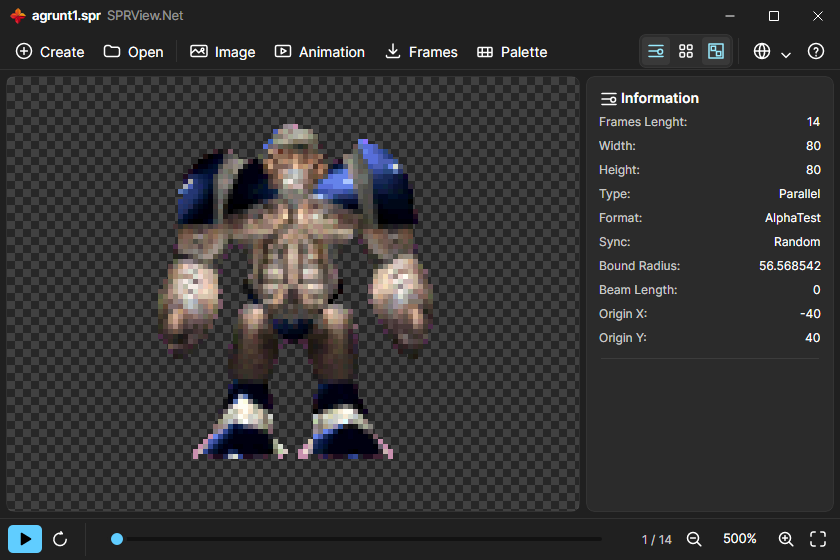
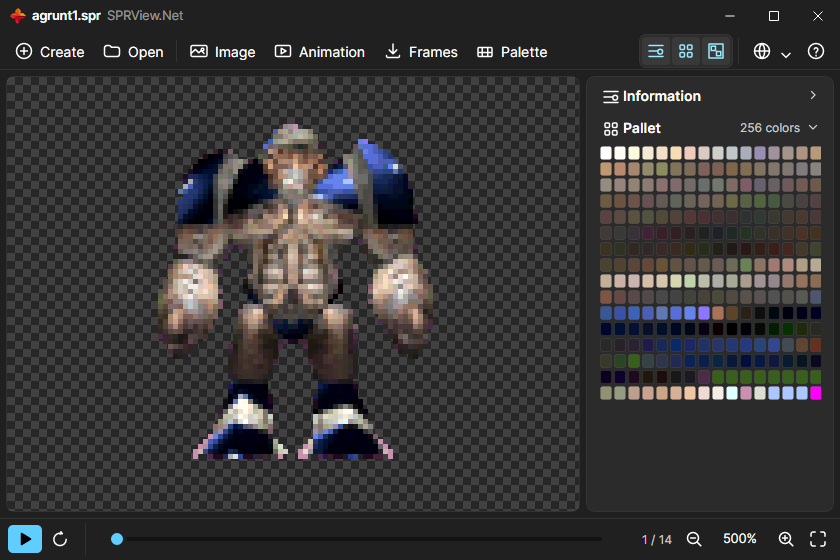
feat(ui): make the side panel sections collapsible
The information rows occupied the top of the side panel permanently, so a 256
colour palette could never use the full height without turning the whole panel
off in the command bar.

Both sections now collapse from their header, which became a full width row
with a chevron that flips between down and right. The command bar still decides
whether the panel exists; the header decides whether that section is unfolded,
so the two controls no longer have to be used together. The rule between the
sections only appears when both are open.

The palette is collapsible too rather than only the information: the same
problem applies in the other direction when you are reading metadata and do not
want the swatch grid.

Small 12x12 chevrons were needed because the existing ones are authored on the
20x20 icon grid and lose their shape when drawn at caption size.

Rows also step down to 22px, swatches to 14px and the panel padding tightens,
continuing the compaction from the previous commit.

The interaction suite grew to 53 checks. The three new groups click the real
header buttons, which covers the handlers and the section state, not just the
flags behind them.

Changed region(s): [[0.7119, 0.1518, 0.9905, 0.7286], [0.8048, 0.0607, 0.8357, 0.1214]]

diff --git a/tools/UiSnapshot/InteractionChecks.cs b/tools/UiSnapshot/InteractionChecks.cs
@@ -3,6 +3,7 @@ using Avalonia.Controls;
 using Avalonia.Controls.Primitives;
 using Avalonia.Headless;
 using Avalonia.Input;
+using Avalonia.Interactivity;
 using Avalonia.Input.Raw;
 using Avalonia.Media.Imaging;
 using Avalonia.Platform;
@@ -128,6 +129,47 @@ internal static class InteractionChecks
             Settle();
             Expect(vm.ApplyTransparency, "clicking it again turns transparency back on");
         }
+
+        // Section headers inside the side panel collapse independently of the
+        // command bar, so a long palette can use the whole panel.
+        vm.ShowPalettePanel = true;
+        Settle();
+        Expect(vm.IsInfoExpanded && vm.IsPaletteExpanded, "both sections start expanded");
+        Expect(vm.ShowInfoDivider, "the divider shows while both sections are open");
+
+        vm.IsInfoExpanded = false;
+        Settle();
+        Expect(!vm.IsInfoExpanded, "the information section collapses");
+        Expect(!vm.ShowInfoDivider, "collapsing information drops the divider");
+
+        var infoHeader = window.FindControl<Button>("InfoSectionHeader");
+        Expect(infoHeader != null, "the panel exposes the information header button");
+        if (infoHeader != null)
+        {
+            // A Button has no click verb in the API; raising the event is what
+            // the pointer would do, and it runs the real handler.
+            infoHeader.RaiseEvent(new RoutedEventArgs(Button.ClickEvent));
+            Settle();
+            Expect(vm.IsInfoExpanded, "clicking the header expands it again");
+            infoHeader.RaiseEvent(new RoutedEventArgs(Button.ClickEvent));
+            Settle();
+            Expect(!vm.IsInfoExpanded, "clicking it again collapses it");
+        }
+
+        var paletteHeader = window.FindControl<Button>("PaletteSectionHeader");
+        Expect(paletteHeader != null, "the panel exposes the palette header button");
+        if (paletteHeader != null)
+        {
+            paletteHeader.RaiseEvent(new RoutedEventArgs(Button.ClickEvent));
+            Settle();
+            Expect(!vm.IsPaletteExpanded, "the palette section collapses");
+            paletteHeader.RaiseEvent(new RoutedEventArgs(Button.ClickEvent));
+            Settle();
+            Expect(vm.IsPaletteExpanded, "the palette section expands again");
+        }
+
+        vm.IsInfoExpanded = true;
+        Settle();
 
         // Panel toggles are plain properties the command bar binds to.
         vm.ShowPalettePanel = true;

diff --git a/src/SPRView.Net/ViewModel/MainWindow/MainWindowViewModel.cs b/src/SPRView.Net/ViewModel/MainWindow/MainWindowViewModel.cs
@@ -313,6 +313,7 @@ public partial class MainWindowViewModel : INotifyPropertyChanged
             m_bShowInfoPanel = value;
             OnPropertyChanged(nameof(ShowInfoPanel));
             OnPropertyChanged(nameof(CanShowSideBar));
+            OnPropertyChanged(nameof(ShowInfoDivider));
         }
     }
 
@@ -325,8 +326,47 @@ public partial class MainWindowViewModel : INotifyPropertyChanged
             m_bShowPalettePanel = value;
             OnPropertyChanged(nameof(ShowPalettePanel));
             OnPropertyChanged(nameof(CanShowSideBar));
+            OnPropertyChanged(nameof(ShowInfoDivider));
         }
     }
+
+    private bool m_bIsInfoExpanded = true;
+
+    /// <summary>
+    /// Whether the information rows are expanded inside the side panel. The
+    /// command bar controls whether the panel exists at all; this controls the
+    /// section within it, so a long palette can take the whole panel.
+    /// </summary>
+    public bool IsInfoExpanded
+    {
+        get => m_bIsInfoExpanded;
+        set
+        {
+            if (m_bIsInfoExpanded == value)
+                return;
+            m_bIsInfoExpanded = value;
+            OnPropertyChanged(nameof(IsInfoExpanded));
+            OnPropertyChanged(nameof(ShowInfoDivider));
+        }
+    }
+
+    private bool m_bIsPaletteExpanded = true;
+
+    /// <summary>Whether the palette swatches are expanded inside the side panel.</summary>
+    public bool IsPaletteExpanded
+    {
+        get => m_bIsPaletteExpanded;
+        set
+        {
+            if (m_bIsPaletteExpanded == value)
+                return;
+            m_bIsPaletteExpanded = value;
+            OnPropertyChanged(nameof(IsPaletteExpanded));
+        }
+    }
+
+    /// <summary>The rule between the two sections only earns its space when both are open.</summary>
+    public bool ShowInfoDivider => m_bShowInfoPanel && m_bShowPalettePanel && m_bIsInfoExpanded;
 
     public bool CanShowSideBar => (m_bShowInfoPanel || m_bShowPalettePanel) && HasSprite;
 

diff --git a/tools/UiSnapshot/Program.cs b/tools/UiSnapshot/Program.cs
@@ -209,6 +209,20 @@ internal static class Program
         Dump($"main-wide-{suffix}.png", wideWindow, 1280, 700);
         DumpTree(wideWindow, "wide");
 
+        // Fifth pass: information collapsed, palette taking the whole panel.
+        var collapsedWindow = new MainWindow();
+        var collapsedVm = new MainWindowViewModel(collapsedWindow) { Lang = LangLoader.Load(_lang) };
+        collapsedWindow.DataContext = collapsedVm;
+        collapsedVm.ShowPalettePanel = true;
+        if (_sprPath != null && File.Exists(_sprPath))
+        {
+            using FileStream stream = File.OpenRead(_sprPath);
+            SprDocument sprite = SprDocument.Load(stream);
+            collapsedVm.LoadSprite(sprite, Path.GetFileName(_sprPath));
+            collapsedVm.IsInfoExpanded = false;
+        }
+        Dump($"main-collapsed-{suffix}.png", collapsedWindow, 840, 560);
+
         // Fourth pass: at the minimum window size.
         var narrowWindow = new MainWindow();
         var narrowVm = new MainWindowViewModel(narrowWindow) { Lang = LangLoader.Load(_lang) };

diff --git a/src/SPRView.Net/ViewModel/LangViewModel.cs b/src/SPRView.Net/ViewModel/LangViewModel.cs
@@ -61,6 +61,7 @@ public class LangViewModel : INotifyPropertyChanged
     public string Dock_Loop { get => field; set { field = value; OnPropertyChanged(nameof(Dock_Loop)); } } = "Loop";
     public string Dock_ZoomIn { get => field; set { field = value; OnPropertyChanged(nameof(Dock_ZoomIn)); } } = "Zoom in";
     public string Dock_ZoomOut { get => field; set { field = value; OnPropertyChanged(nameof(Dock_ZoomOut)); } } = "Zoom out";
+    public string Dock_CollapseSection { get => field; set { field = value; OnPropertyChanged(nameof(Dock_CollapseSection)); } } = "Collapse / expand";
     public string Dock_Transparency { get => field; set { field = value; OnPropertyChanged(nameof(Dock_Transparency)); } } = "Hide transparent background";
     public string Dock_ZoomReset { get => field; set { field = value; OnPropertyChanged(nameof(Dock_ZoomReset)); } } = "Reset zoom";
     public string Dock_Fit { get => field; set { field = value; OnPropertyChanged(nameof(Dock_Fit)); } } = "Fit to window";

diff --git a/src/SPRView.Net/Window/MainWindow.axaml.cs b/src/SPRView.Net/Window/MainWindow.axaml.cs
@@ -145,6 +145,18 @@ public partial class MainWindow : Window
     private void OnAboutClick(object? sender, Avalonia.Interactivity.RoutedEventArgs e)
         => Vm?.About();
 
+    private void OnToggleInfoSection(object? sender, Avalonia.Interactivity.RoutedEventArgs e)
+    {
+        if (Vm is { } vm)
+            vm.IsInfoExpanded = !vm.IsInfoExpanded;
+    }
+
+    private void OnTogglePaletteSection(object? sender, Avalonia.Interactivity.RoutedEventArgs e)
+    {
+        if (Vm is { } vm)
+            vm.IsPaletteExpanded = !vm.IsPaletteExpanded;
+    }
+
     #endregion
 
     #region Transport

diff --git a/README.md b/README.md
@@ -55,8 +55,10 @@ the host theme, so the three platforms render identically:
 - **Chrome** is app-drawn: the caption, the command bar and the resize grips
   come from `Window/WindowChrome.cs`, so the window looks the same instead of
   picking up the native title bar on each OS.
-- **Layout** is a caption, a command bar, a checkerboard canvas, a collapsible
-  side panel and a transport bar. Small sprites are auto-fitted on whole-number
+- **Layout** is a caption, a command bar, a checkerboard canvas, a side panel
+  and a transport bar. The information and palette sections inside the side
+  panel collapse from their headers, so a 256 colour palette can take the whole
+  panel when the sprite metadata is not what you are looking at. Small sprites are auto-fitted on whole-number
   zoom steps, so pixel art stays sharp.
 - **Transparency** is applied per the sprite format by default. The toggle in
   the command bar turns that off to show the frames exactly as the file stores

diff --git a/READMECN.md b/READMECN.md
@@ -52,7 +52,9 @@ tools/
   不使用 emoji，也不使用平台图标字体 —— 因为它们并非处处可用。
 - **窗口外框**由应用自绘：标题栏、命令栏与缩放边框都来自
   `Window/WindowChrome.cs`，因此不会在各系统上变成原生标题栏。
-- **布局**为：标题栏、命令栏、棋盘格画布、可折叠侧栏、底部控制条。
+- **布局**为：标题栏、命令栏、棋盘格画布、侧栏、底部控制条。
+  侧栏内的信息与调色板区块可通过标题行收起，不需要看元数据时可让
+  256 色色板占满整个侧栏。
   小尺寸精灵自动以整数倍缩放适应窗口，像素画保持锐利。
 - **透明背景**默认按精灵图格式的规则剔除。命令栏的开关可关闭此行为，
   按文件存储的像素原样显示（包含背景），便于查看作者在画面下实际绘制了什么。
